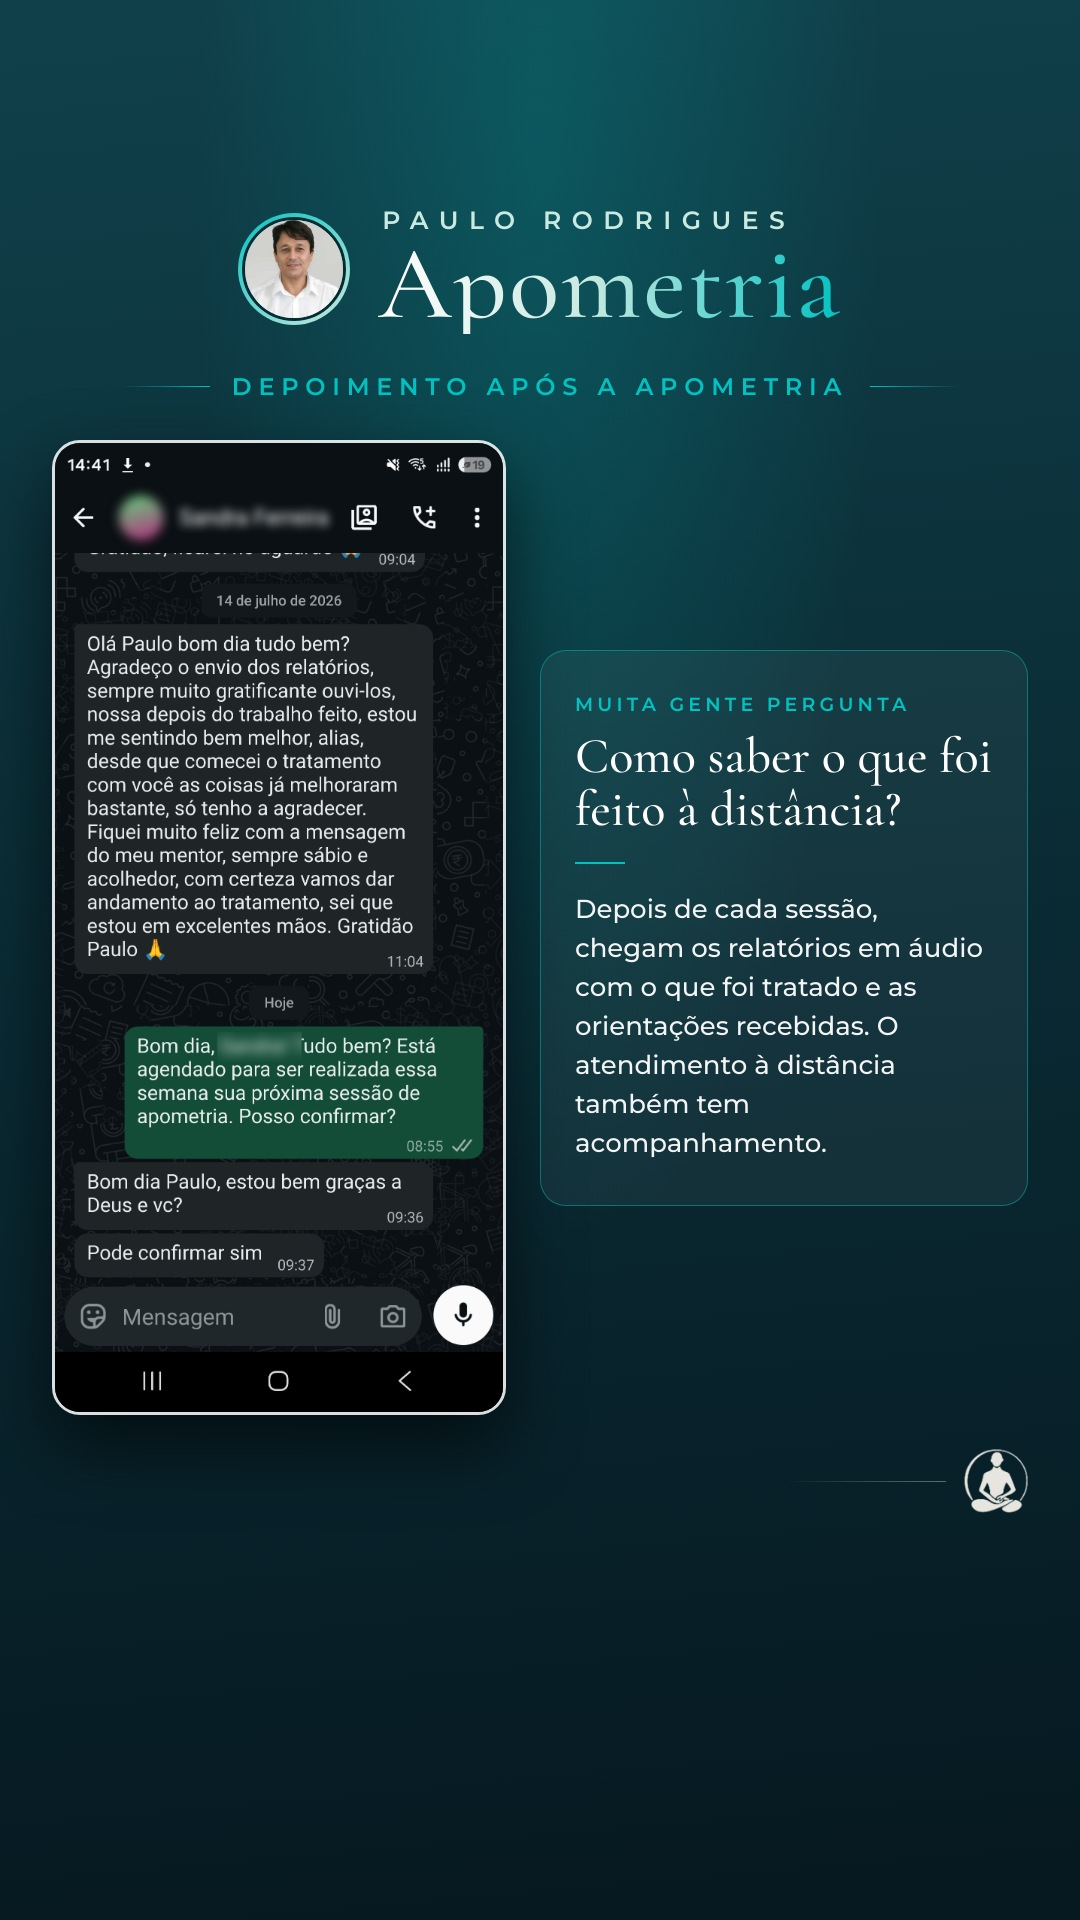
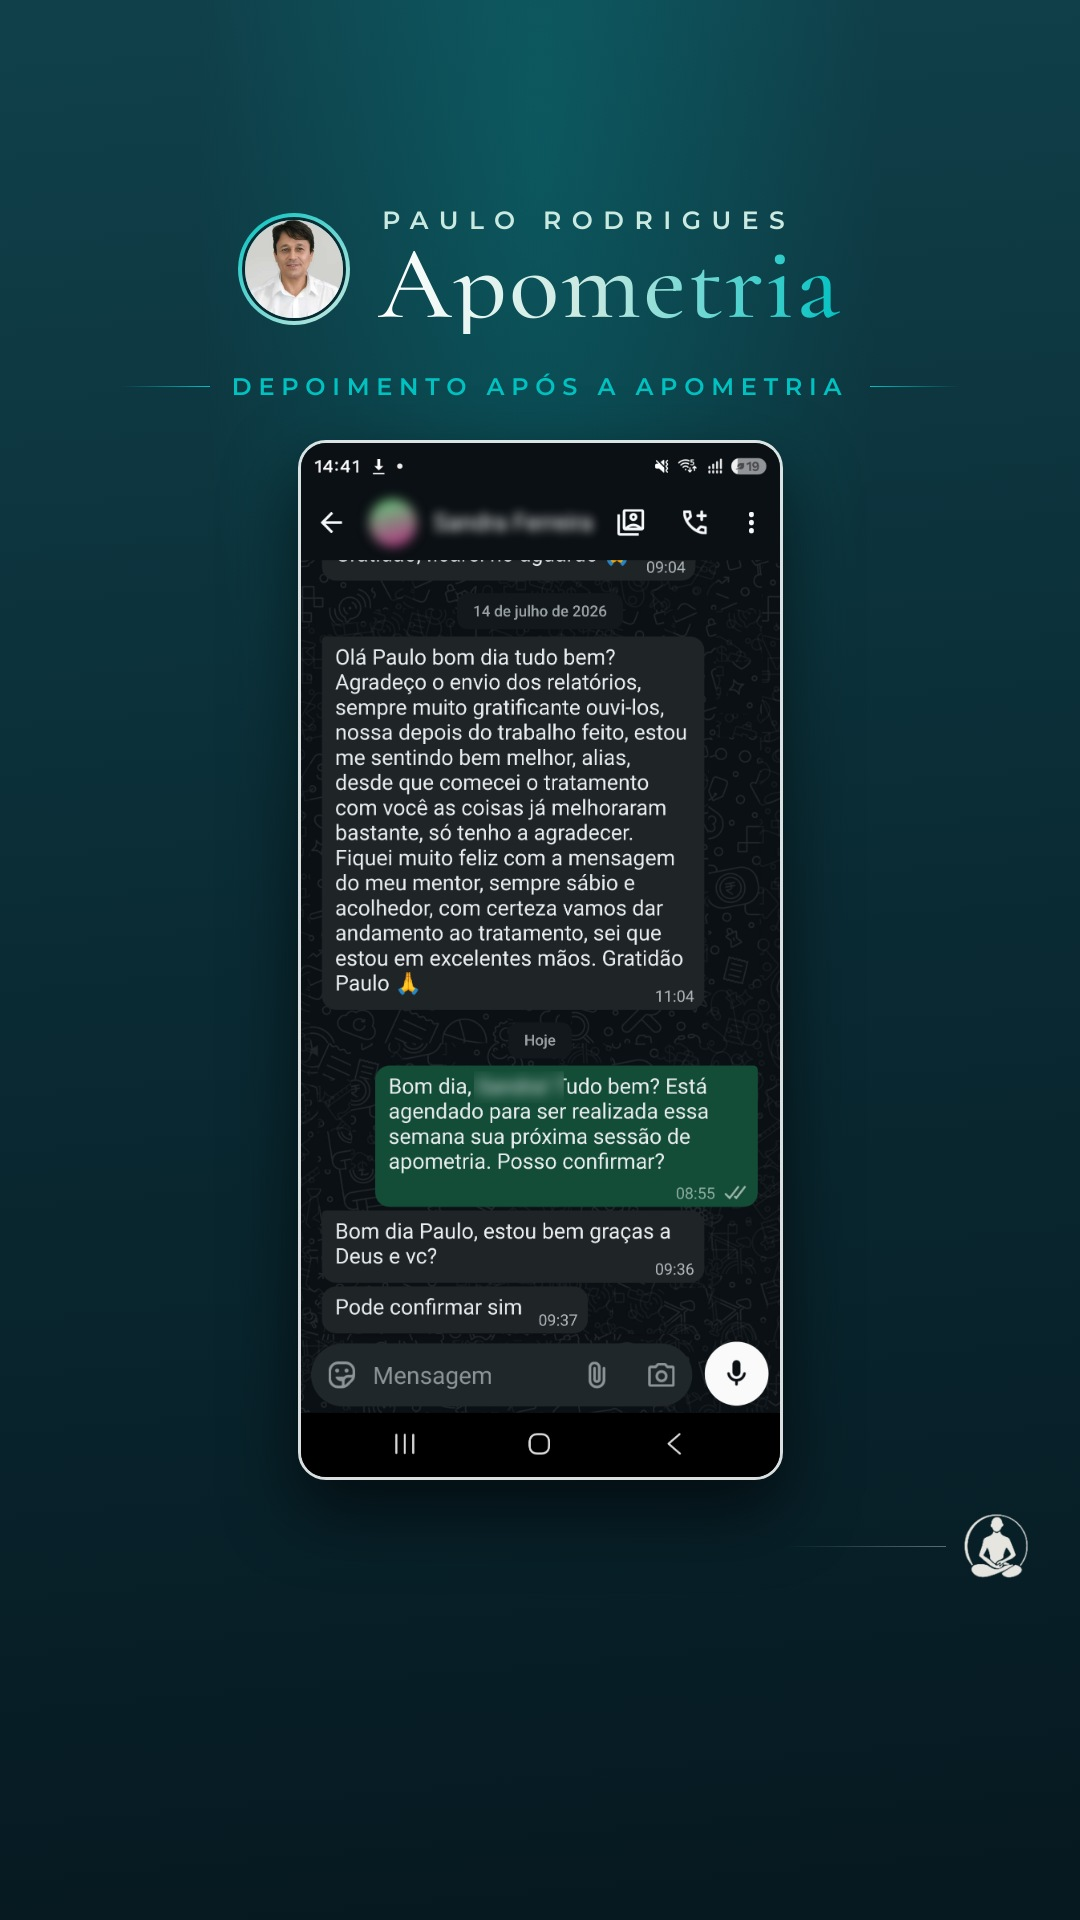
Depoimentos: sem faixa; 5 stories no modelo final
Claude-Session: https://claude.ai/code/session_01JEWNugGqZtfRNNpR6FEnd2

Changed region(s): [[0.0306, 0.2188, 0.9167, 0.7812], [0.8861, 0.75, 0.9472, 0.8438]]

diff --git a/producoes/depoimentos/LEIA-ME.md b/producoes/depoimentos/LEIA-ME.md
@@ -1,18 +1,21 @@
 # Depoimentos (stories) · Paulo Rodrigues · Apometria
 
-Modelo atual: composição `DepoimentoAP` (25/11/2026), props em `modelos/remotion/out/depo-ap.props.json`.
-- Topo: foto do Paulo + "PAULO RODRIGUES" + **Apometria** em destaque (degradê branco → menta → turquesa).
-- Etiqueta alternada: "Depoimento após a Apometria" / "Relato depois da Apometria".
-- **Print original do WhatsApp inteiro** à esquerda (moldura do app = veracidade). Nomes de clientes dentro das mensagens borrados.
-- Comentário num cartão separado à direita: "Muita gente pergunta" + objeção + resposta baseada no que a pessoa disse.
-- Rodapé: só o símbolo da Apometria Brasil, à direita. Sem aviso de autorização, sem selo.
+Modelo atual (25/11/2026): composição `DepoimentoAP`, props `modelos/remotion/out/depo-ap.props.json` (faixa=false, selo=false, sem vinculo, sem comentário).
+- Fundo azul/petróleo em degradê com leve brilho turquesa no alto.
+- Topo: foto do Paulo + "PAULO RODRIGUES" + **Apometria** grande em degradê (branco → menta → turquesa). Sem faixa atrás.
+- Etiqueta alternada em turquesa entre fios: "Depoimento após a Apometria" / "Relato depois da Apometria".
+- **Print original do WhatsApp inteiro**, centralizado. Nomes de clientes dentro das mensagens borrados.
+- Rodapé: só o símbolo da Apometria Brasil, à direita.
+- Sem comentários/objeções, sem aviso de autorização, sem selo.
+
+Recusados: fundo claro creme, céu estrelado, selo redondo, faixa atrás do nome, comentário ao lado do print.
 
 Antes de publicar: autorização por escrito do cliente. Não usar o da Thais. Frequência: a cada 2 dias.
 
-| # | Print | Etiqueta | Objeção |
-|---|---|---|---|
-| 1 | relatorios.png | Depoimento após a Apometria | Dá para perceber alguma mudança? |
-| 2 | maria-equipe.png | Relato depois da Apometria | Uma sessão resolve tudo? |
-| 3 | sandra1.png | Depoimento após a Apometria | Como saber o que foi feito à distância? |
-| 4 | raquel1.png | Relato depois da Apometria | Dá para confiar num trabalho espiritual? |
-| 5 | cibele.png | Depoimento após a Apometria | A apometria também cuida da casa? |
+| # | Print | Etiqueta |
+|---|---|---|
+| 1 | relatorios.png | Depoimento após a Apometria |
+| 2 | maria-equipe.png | Relato depois da Apometria |
+| 3 | sandra1.png | Depoimento após a Apometria |
+| 4 | raquel1.png | Relato depois da Apometria |
+| 5 | cibele.png | Depoimento após a Apometria |

diff --git a/marcas/apometria-brasil/aprendizados.md b/marcas/apometria-brasil/aprendizados.md
@@ -45,3 +45,4 @@ Os agentes leem este arquivo antes de criar.
 - 25/11/2026 · Depoimentos devem seguir o design system já definido (céu cinematográfico, azul profundo com leve lilás, brilhos, rótulo turquesa, assinatura do Paulo), não um fundo liso inventado. Sem textos/comentários ao lado do print. Modelo: `DepoimentoCeu`.
 - 25/11/2026 · Depoimento com céu estrelado, brilhos e rótulo turquesa forte = "horrível", chamativo demais. Pedido: menos chamativo, mais soft, com a paleta da marca (creme/areia/sálvia + verde-petróleo). Teste: `DepoimentoSoft`.
 - 25/11/2026 · Decisão: manter o fundo azul/petróleo do `DepoimentoAP` (o claro e o de céu foram recusados). Nome "Paulo Rodrigues / Apometria" sobre uma faixa arredondada translúcida (menta→turquesa→petróleo). Print centralizado, sem comentários ao lado; símbolo no rodapé à direita.
+- 25/11/2026 · Faixa atrás do nome recusada. Depoimento final: fundo azul, nome sem faixa, print centralizado, símbolo no rodapé à direita.
